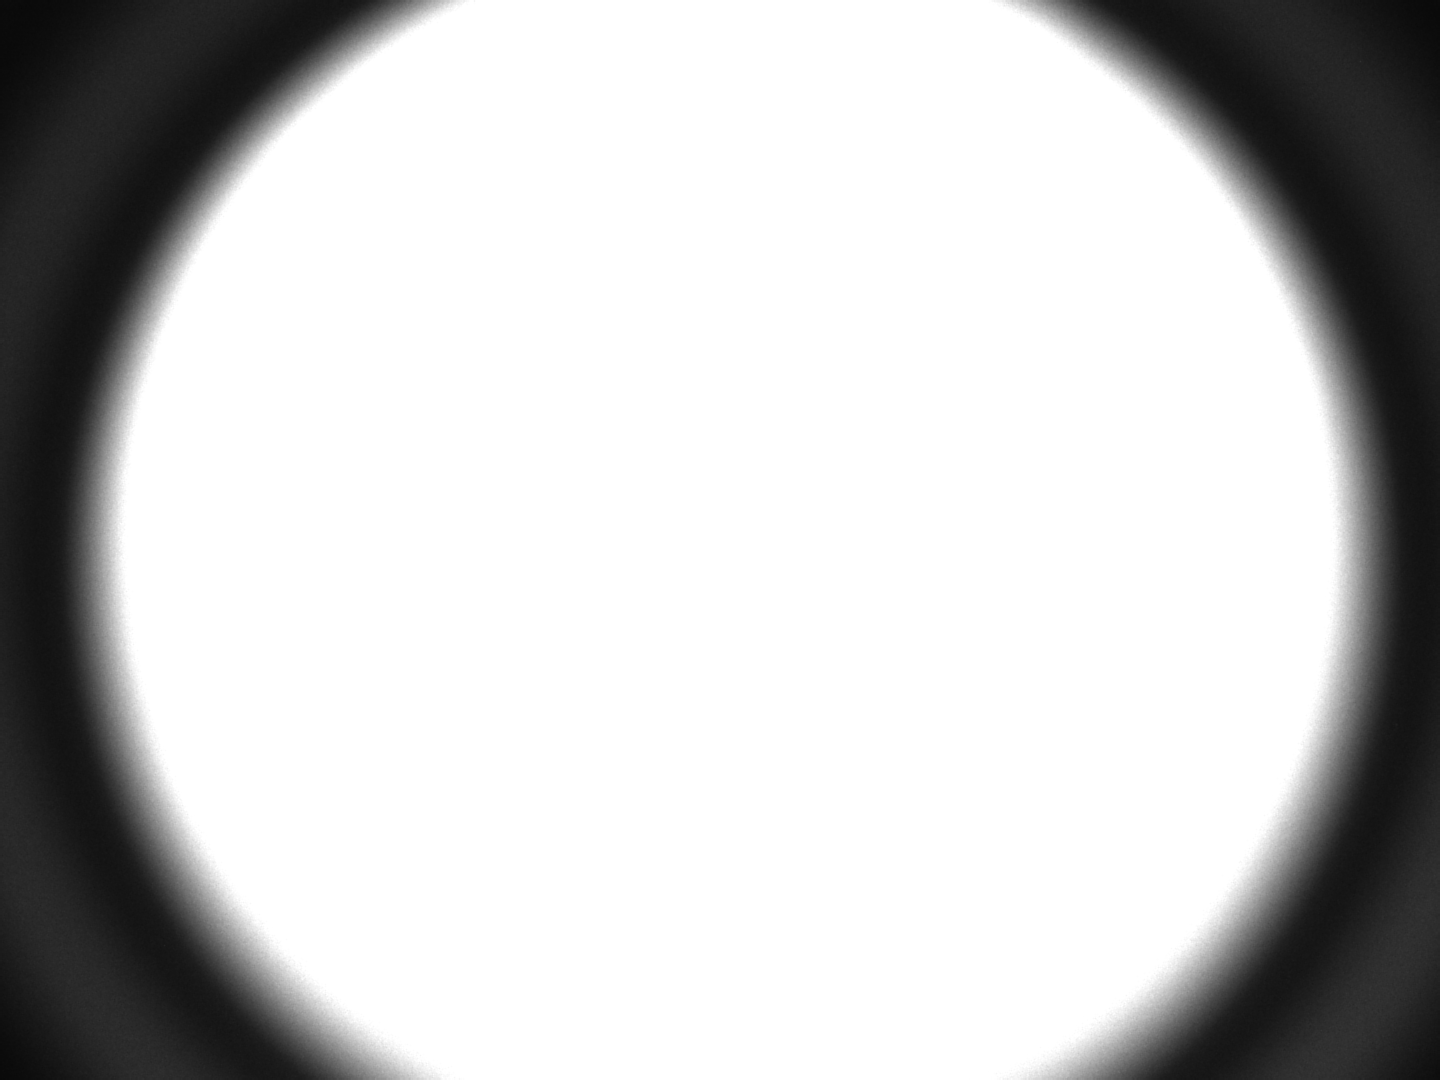
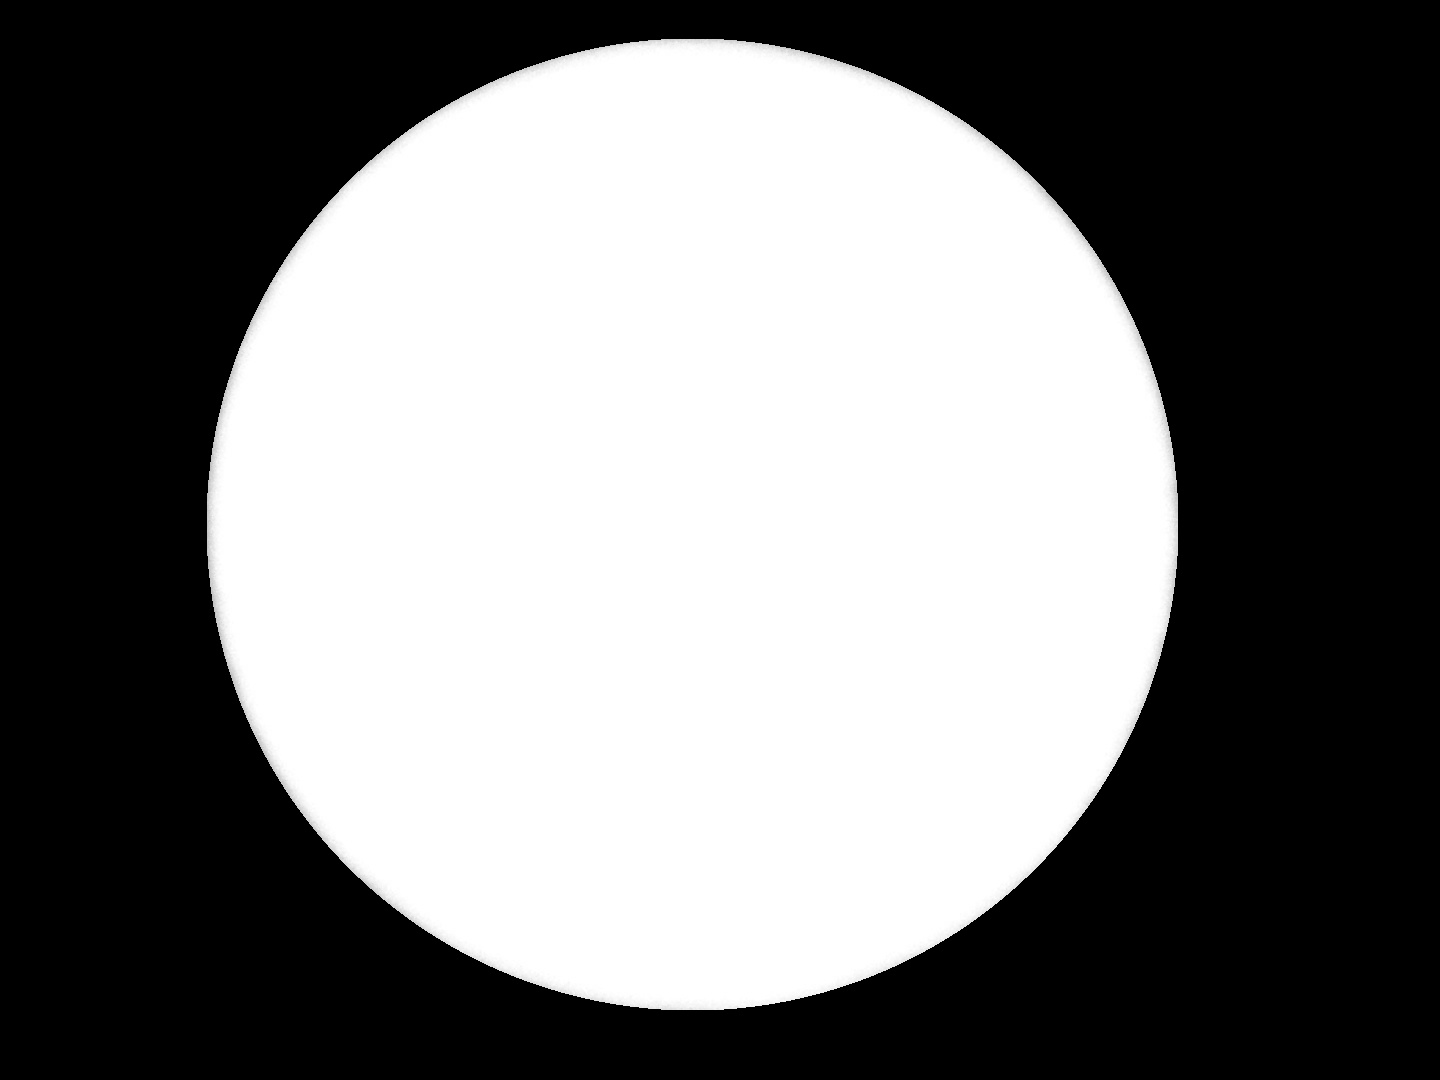
[05.31] update scenario : enable autoexposure / freezing

diff --git a/clientapp/instance/capture/capture_ros.py b/clientapp/instance/capture/capture_ros.py
@@ -156,7 +156,7 @@ class CaptureNode(Node):
         self.space_id = None
         return True
 
-    def run_capture_queue_thread(self):
+    def init_capture_thread(self, capture_mode: str = "single"):
         """
         Request Capture Rotation Queue
         Robot begins to rotate and capture images, asynchronously
@@ -166,32 +166,38 @@ class CaptureNode(Node):
         if error:
             return error
         self.capture_id = int(time())
-        thread = threading.Thread(target=self.run_capture_queue, args=[self.capture_id])
+
+        thread = threading.Thread(
+            target=self.run_capture_thread, args=[capture_mode, self.capture_id]
+        )
         thread.start()
+
         return {
             "status": "success",
             "space_id": self.space_id,
             "capture_id": self.capture_id,
         }
 
-    def run_capture_queue_single(self):
-        """
-        Request Single Scene Capture
-        Robot captures a single scene and stores it in the storage
-        """
-        error = self.check_capture_call_available()
-        if error:
-            return error
+    def run_capture_thread(self, capture_mod: str = "single", capture_id: int = -1):
+        #### Pre Capture Task
+        self.ell.polarizer_turn(home=True)
+        self.set_capture_flag(True)
 
-        self.capture_id = int(time())
+        if capture_mod == "single":
+            self.capture_single_job(capture_id)
 
-        threading.Thread(target=self.capture_single_job, args=[self.capture_id]).start()
-        sleep(1)
-        return {
-            "status": "success",
-            "space_id": self.space_id,
-            "capture_id": self.capture_id,
-        }
+        if capture_mod == "queue":
+            self.run_capture_queue(capture_id)
+
+        ### Post Capture Task
+
+        self.ell.polarizer_turn(home=True)
+        self.set_capture_flag(False)
+        if (
+            self.messageDef.MultiChannel_Left.enabled
+            or self.messageDef.MultiChannel_Right.enabled
+        ):
+            self.hold_jai_autoExposure(False)
 
     def check_capture_call_available(self):
         """
@@ -259,21 +265,13 @@ class CaptureNode(Node):
             return
         if msg.buttons[3] == 1:  # X button
             if msg.buttons[4] == 1:  # L1 Button
-                self.run_capture_queue_thread()
+                self.init_capture_thread("queue")
             else:
-                self.run_capture_queue_single()
+                self.init_capture_thread("single")
 
     ########################################################
     ### Image Capture Tasks
     #######################################################
-
-    def store_scene_thread(
-        self, space_id, capture_id, scene_id, scene: CaptureSingleScene
-    ):
-        threading.Thread(
-            target=self.storage.store_captured_scene,
-            args=(space_id, capture_id, scene_id, scene),
-        ).start()
 
     def run_capture_queue(self, capture_id: int):
         if not self.space_id:
@@ -283,7 +281,6 @@ class CaptureNode(Node):
         This function triggers capture thread
         For each iteration, the camera captures scene and robot turns right for about 10 degrees
         """
-        self.set_capture_flag(True)
         self.flag_abort = False
         self.capture_id = int(time())
 
@@ -315,6 +312,13 @@ class CaptureNode(Node):
                 capture_id=capture_id,
             )
 
+            if (
+                self.messageDef.MultiChannel_Left.enabled
+                or self.messageDef.MultiChannel_Right.enabled
+            ):
+                params = self.hold_jai_autoExposure(True)
+                print(params)
+
             self.capture_msg = CaptureMessage(self.messageDef)
             scene = CaptureSingleScenario(
                 self.open_jai_stream,
@@ -339,6 +343,12 @@ class CaptureNode(Node):
 
             if scene_id != self.scenario_hyper.RotationQueueCount.value - 1:
                 self.turn_right()
+                if (
+                    self.messageDef.MultiChannel_Left.enabled
+                    or self.messageDef.MultiChannel_Right.enabled
+                ):
+                    self.hold_jai_autoExposure(False)
+
             self.ell.polarizer_turn(home=True)
             self.storage.store_captured_scene(
                 space_id=space_id, capture_id=capture_id, scene_id=scene_id, scene=scene
@@ -352,13 +362,11 @@ class CaptureNode(Node):
             msg="Rotating Capture Done",
             capture_id=capture_id,
         )
-        self.set_capture_flag(False)
         gc.collect()
 
     def capture_single_job(self, capture_id: int):
         if not self.space_id:
             return
-        self.set_capture_flag(True)
 
         self.capture_msg = CaptureMessage(self.messageDef)
         scene = CaptureSingleScenario(
@@ -372,15 +380,25 @@ class CaptureNode(Node):
             self.storage,
         ).run_single_capture()
         if not scene:
-            self.set_capture_flag(False)
             return None
         self.storage.store_captured_scene(
             space_id=self.space_id, capture_id=capture_id, scene_id=0, scene=scene
         )
-        self.set_capture_flag(False)
 
     def open_jai_stream(self, open: bool):
         self.publisher_jai_trigger.publish(Bool(data=open))
+
+    def hold_jai_autoExposure(self, hold: bool):
+        request = requests.post(
+            f"http://localhost/jai/device/all/auto_exposure_hold",
+            json={"hold": hold},
+        )
+
+        if not request.ok:
+            raise Exception("Failed to hold auto exposure")
+
+        if hold:
+            return request.json()
 
     def turn_right(self):
         twist = Twist()
@@ -399,7 +417,6 @@ class CaptureNode(Node):
             sleep(0.10)
             if time_passed > self.scenario_hyper.RotationInterval.value:
                 break
-        sleep(2)
 
     def oakd_camera_command(self, start: Optional[bool] = None):
         if start == True:

diff --git a/clientapp/instance/capture/capture_app.py b/clientapp/instance/capture/capture_app.py
@@ -100,7 +100,7 @@ def message_group_cmd(group, cmd):
 
 @app.route("/capture", methods=["POST"])
 def capture_at():
-    result = capture_node.run_capture_queue_thread()
+    result = capture_node.init_capture_thread("queue")
     if not result:
         return Response(status=500)
     if result["status"] == "error":
@@ -110,7 +110,7 @@ def capture_at():
 
 @app.route("/capture/single", methods=["POST"])
 def capture_single():
-    result = capture_node.run_capture_queue_single()
+    result = capture_node.init_capture_thread("single")
     if not result:
         return Response(status=500)
     if result["status"] == "error":
@@ -217,37 +217,48 @@ def update_qwp_angles():
     if angles and type(angles) == list:
         capture_node.messageDef.ANGLES = angles
 
-    return {"status": "success"}
+    return {"angles": capture_node.messageDef.ANGLES}
+
+
+@app.route("/polarization/qwpangle", methods=["GET"])
+def get_current_qwp_angles_preset():
+    return {"angles": capture_node.messageDef.ANGLES}
+
+
+from time import sleep
+
+
+@app.route("/polarization/linear/<space>/<capture>/<scene>/<angle>/<qwpangle>")
+def polarization_calibration_render(space, capture, scene, angle, qwpangle):
+    if p_compute.prepare_scene(angle, qwpangle):
+
+        images = capture_storage.get_capture_scene_images_paths(
+            int(space), int(capture), int(scene)
+        )
+        images = [x for x in images if "jai_1600_left_" in x]
+        # print(images)
+        p_compute.update_qwp_angles(
+            [
+                (int(x.split("channel_0_")[1].split(".")[0]) + float(qwpangle))
+                for x in images
+                if "channel_0" in x
+            ]
+        )
+        images = [f"tmp/oakd_capture/{space}/{capture}/{scene}/{x}" for x in images]
+        p_compute.put_image_list((int(space), int(capture), int(scene)), images)
+
+        p_compute.update_linear_matrix(np.pi / 180 * float(angle))
+        p_compute.compute()
+    return Response(response=p_compute.image_np_dict.keys())
 
 
 @app.route(
-    "/polarization/linear/<space>/<capture>/<scene>/<channel>/<angle>", methods=["GET"]
+    "/polarization/view/<property>",
+    methods=["GET"],
 )
-def get_polarization_calibration(space, capture, scene, channel, angle):
-
-    images = capture_storage.get_capture_scene_images_paths(
-        int(space), int(capture), int(scene)
-    )
-    images = [x for x in images if "jai_1600_left_" + channel in x]
-    print(images)
-    p_compute.update_qwp_angles(
-        [int(x.split(channel)[1].split(".")[0]) for x in images]
-    )
-    images = [f"tmp/oakd_capture/{space}/{capture}/{scene}/{x}" for x in images]
-    p_compute.put_image_list(images)
-
-    p_compute.update_linear_matrix(np.pi / 180 * float(angle))
-
-    # Create a list of images
-    images = p_compute.compute()
-
-    # Create a new image by concatenating the four images horizontally
-    images = [np.concatenate(x, axis=0) for x in images]
-    result_image = np.concatenate(images, axis=1)
-
-    # Convert the result image back to an ndarray
-    result_array = np.array(result_image)
-    result_image_bytes = cv2.imencode(".jpg", result_array)[1].tobytes()
+def get_polarization_calibration(property):
+    image = p_compute.get_image_by_property(property)
+    result_image_bytes = cv2.imencode(".jpg", image)[1].tobytes()
     response = Response(result_image_bytes, mimetype="image/jpeg")
     return response
 

diff --git a/clientapp/instance/capture/capture_scenario.py b/clientapp/instance/capture/capture_scenario.py
@@ -33,6 +33,9 @@ class PolarizerError(Exception):
     pass
 
 
+DEBUG_LAST_CAPTURE_TIME = 0.0
+
+
 class CaptureSingleScenario:
 
     def __init__(
@@ -96,6 +99,16 @@ class CaptureSingleScenario:
             ]
 
     def run_single_capture(self):
+        global DEBUG_LAST_CAPTURE_TIME
+        if DEBUG_LAST_CAPTURE_TIME > 0:
+            self.capture_msg.timestamp_log.logs.append(
+                CaptureTopicTimestampLog.TimestampLog(
+                    topic="Next Capture Preparation",
+                    timestamp=DEBUG_LAST_CAPTURE_TIME,
+                    delay_to_system=time() - DEBUG_LAST_CAPTURE_TIME,
+                )
+            )
+        DEBUG_LAST_CAPTURE_TIME = time()
         """
         vacate capture_msg and wait for all messages to arrive
         create CaptureSingleScene object with lidar, pose, and images

diff --git a/clientapp/instance/capture/capture_msg_def.py b/clientapp/instance/capture/capture_msg_def.py
@@ -12,7 +12,7 @@ MsgType = TypeVar("MsgType")
 
 
 class CaptureMessageDefinition:
-    ANGLES = [30, 60, 270, 315]
+    ANGLES = [0, 30, 60, 135]
     MultiChannel_Left = CaptureMessageDefGroup(
         name="MultiChannel_Left",
         messages=[
